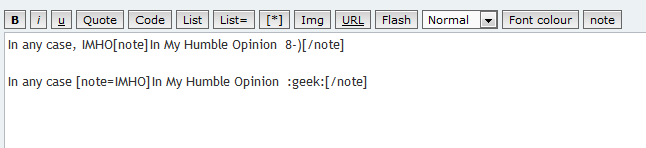
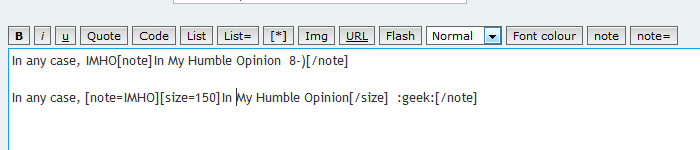
version 1.0.0-b3

Changed region(s): [[0.0, 0.0541, 1.0, 1.0], [0.2477, 0.0, 0.6811, 0.027]]

diff --git a/migrations/notebbcode_1.php b/migrations/notebbcode_1.php
@@ -1,14 +1,11 @@
 <?php
 /**
 *
-* notebbcode (Prime Note Bbcode) - extension
+* @package phpBB Extension - notebbcode
+* @copyright (c) 2016 3Di (Marco T.)
+* @license http://opensource.org/licenses/gpl-2.0.php GNU General Public License v2
 *
-* @copyright (c) 2016 3Di
-*
-* (based on the hard work of Matt Friedman/VSE)
-*
-* @license GNU General Public License, version 2 (GPL-2.0)
-*
+* (migration based on the hard work of Matt Friedman/VSE)
 */
 
 namespace threedi\notebbcode\migrations;
@@ -30,34 +27,29 @@ class notebbcode_1 extends \phpbb\db\migration\migration
 	public function revert_data()
 	{
 		return array(
-			array('custom', array(array(&$this, 'remove_notebbcodes'))),
+			array('custom', array(array(&$this, 'notebbcodes_behind'))),
 		);
 	}
 
 	/**
-	 * Remove BBCodes, used by migrations to perform removes
+	 * notebbcodes left behind, hides the bbcode buttons on posting
 	 *
-	 * @param array $bbcode_tags Array of BBCode tags to remove
+	 * @param array $bbcode_tags Array of noteBBCodes tags to hide
 	 * @return null
 	 * @access public
 	 */
-	public function remove_notebbcodes($bbcode_tags)
+	public function notebbcodes_behind($bbcode_tags)
 	{
-		global $cache;
-
 		/**
-		 * @var array An array of bbcodes tags to remove
+		 * @var array An array of notebbcodes (tags) to be left behind
 		 */
 		$bbcode_tags = array('note', 'note=');
 
-		// remove existing bbcodes
-		$sql = 'DELETE FROM ' . BBCODES_TABLE . '
-			WHERE ' . $this->db->sql_in_set('bbcode_tag', $bbcode_tags) . '
-			OR bbcode_id < 0';
-		$this->db->sql_query($sql);
-
-		// purge the bbcodes' cache
-		$cache->destroy('sql', BBCODES_TABLE);
+		// set to null the display on posting
+		$sql = 'UPDATE ' . BBCODES_TABLE . '
+			SET display_on_posting = 0
+			WHERE ' . $this->db->sql_in_set('bbcode_tag', $bbcode_tags);
+			$this->db->sql_query($sql);
 	}
 
 	/**
@@ -85,7 +77,7 @@ class notebbcode_1 extends \phpbb\db\migration\migration
 				'bbcode_match'		=> '[note]{TEXT}[/note]',
 				'bbcode_tpl'		=> '<span class="prime_bbcode_note_spur" onmouseover="show_note(this);" onmouseout="hide_note(this);" onclick="lock_note(this);"></span><span class="prime_bbcode_note">{TEXT}</span>',
 				'bbcode_helpline'	=> '[note]note text[/note]',
-				'display_on_posting'=> 1,
+				'display_on_posting'=> 0,
 			),
 			'note=' => array(
 				'bbcode_match'		=> '[note={TEXT1}]{TEXT2}[/note]',

diff --git a/ext.php b/ext.php
@@ -15,6 +15,8 @@ namespace threedi\notebbcode;
 
 class ext extends \phpbb\extension\base
 {
+	const VERSION_NOTEBBCODE = '1.0.0-b3';
+
 	/**
 	* Check whether or not the extension can be enabled.
 	* The current phpBB version should meet or exceed

diff --git a/README.md b/README.md
@@ -3,9 +3,11 @@ The primenote MOD as an extension for phpBB3.1
 
 Build Status: [![Build Status](https://travis-ci.org/3D-I/notebbcode.svg)](https://travis-ci.org/3D-I/notebbcode)
 
- Adds a Note BBCode, which displays a tooltip-like box containing text when the mouse is moved over the Note BBCode icon. The text inside the box can accept BBCodes, and the pop-up box will close automatically when the mouse is moved off the icon (unless the user clicks the icon, which will make the pop-up box stick in place until manually closed or until the cursor is moved a certain distance away from the pop-up box). Parses also smilies.BBcodes are automatically installed by the extension, no need to any manual input.
+ Adds a Note BBCode, which displays a tooltip-like box containing text when the mouse is moved over the Note BBCode icon. The text inside the box can accept BBCodes, and the pop-up box will close automatically when the mouse is moved off the icon (unless the user clicks the icon, which will make the pop-up box stick in place until manually closed or until the cursor is moved a certain distance away from the pop-up box). Parses also smilies.BBcodes are automatically installed by the extension, no need to any manual input, just set to display on posting in ACP if you like.
 
 ## Usage
 
 ![Screenshot](Screenshot_1.png)
+
+![Screenshot](Screenshot_2.png)
 
